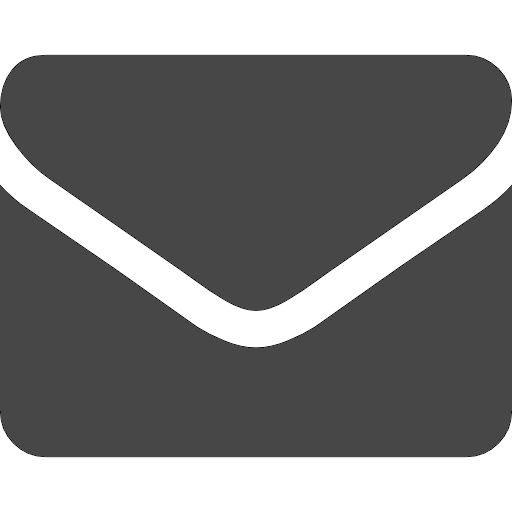
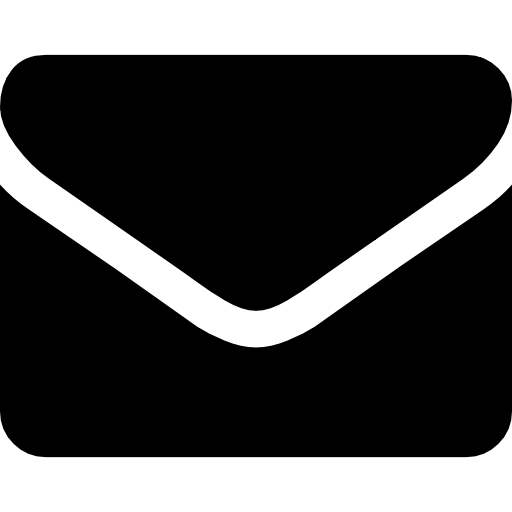
Needed to make separate image.

diff --git a/index.html b/index.html
@@ -126,7 +126,7 @@
             <br>
             <a href="mailto:lyons340@gmail.com" class="email-link">
                 <div id="end-email">
-                    <img src="envelope.png" class="envelope-icon" align="right">
+                    <img src="envelope-gray.png" class="envelope-icon" align="right">
                     <span class="email-subline">I'm looking for a job.</span>
                     <p>If you are hiring an entry-level Software Engineer, I am currently looking for my first post-college job. I am open to relocating to most locations, but would love to hear about your company if you have an opening you think I may be a good fit for! Click anywhere in this box to email me, or right click to copy email address.</p>
                 </div>
